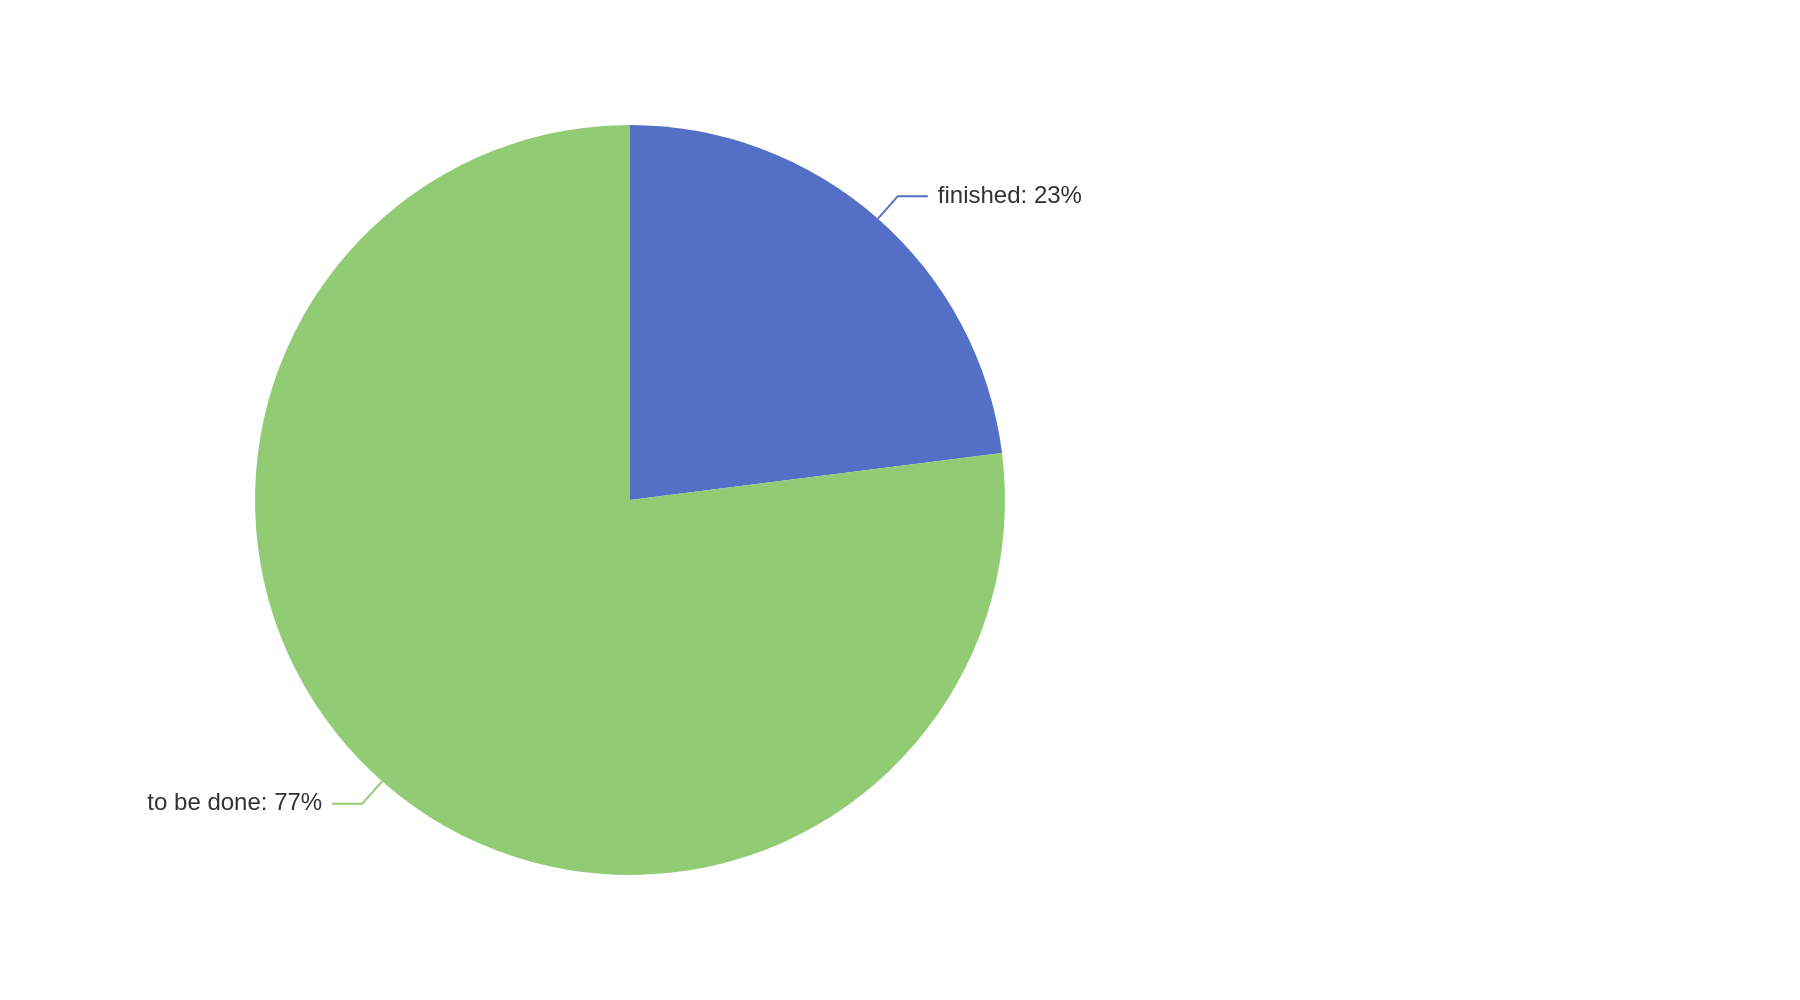
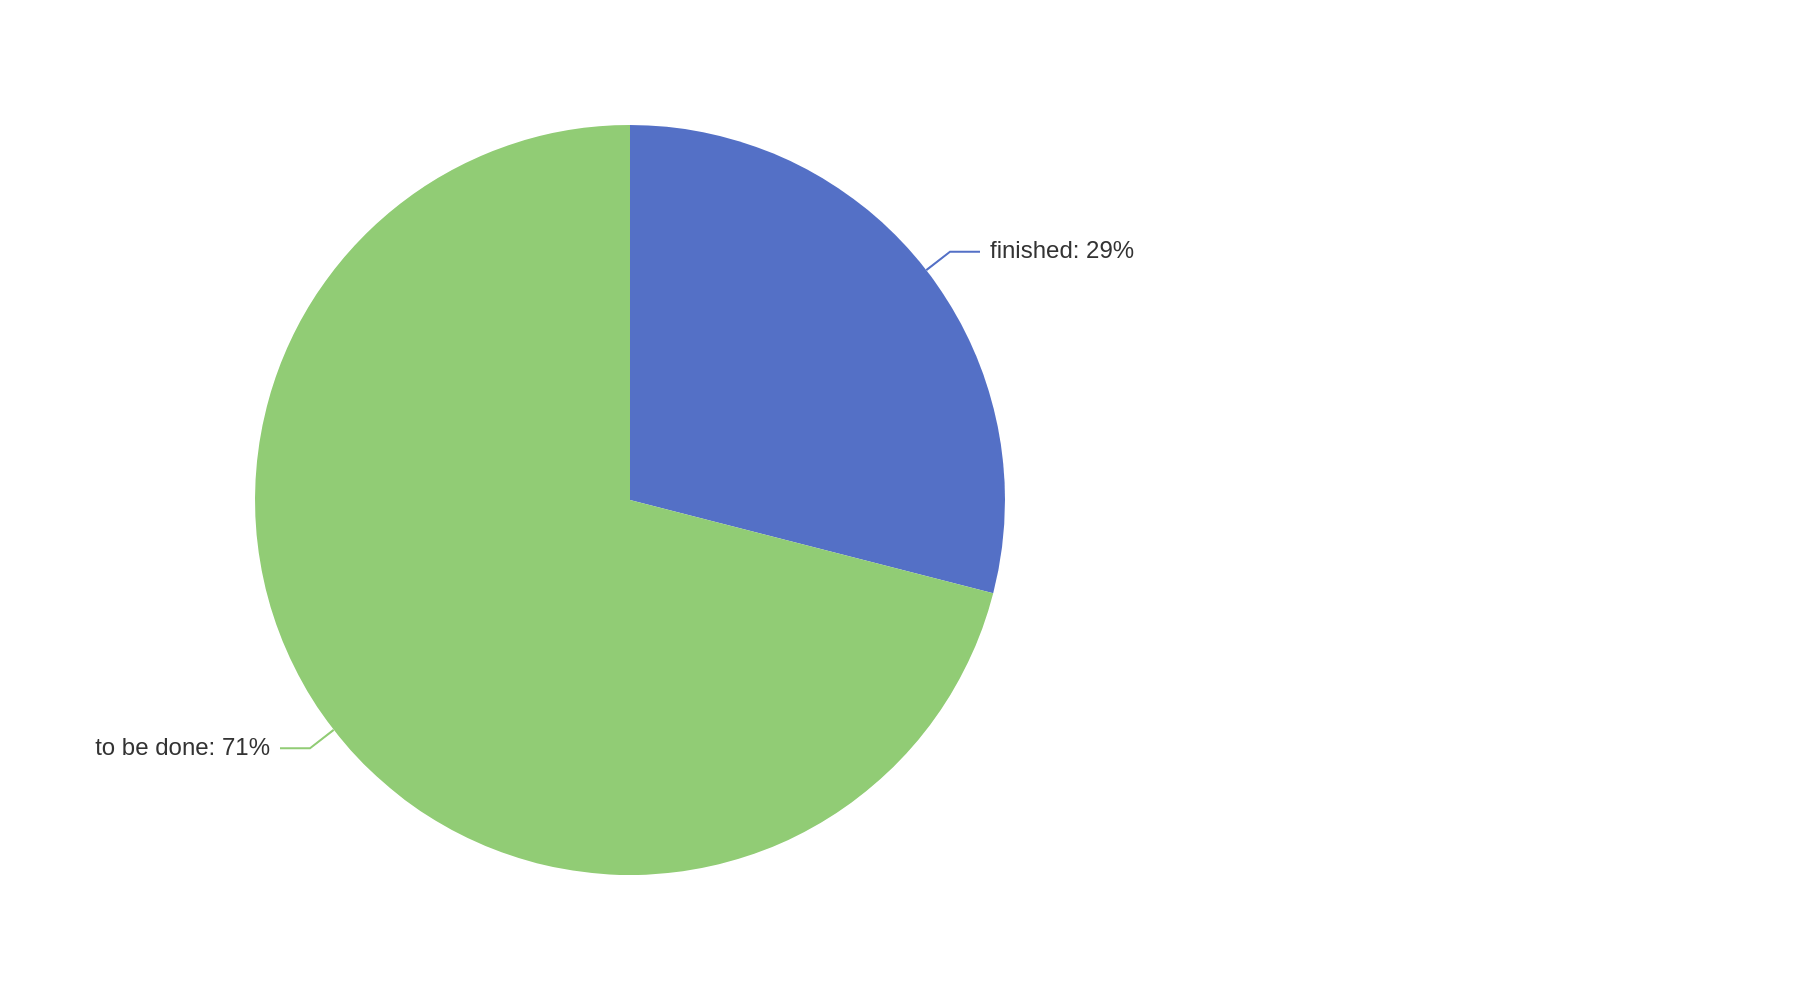
update 9.26

diff --git a/main.py b/main.py
@@ -10,8 +10,8 @@ README_MD = "./README.md"
 
 if __name__ == "__main__":
     loop = asyncio.get_event_loop()
-    result = loop.run_until_complete(add_record("BV1wy4y1D7JT", [BASIC_MD, BASIC_LEARNING_MD], "React", True, range(37), "REACT"))
-    result = loop.run_until_complete(add_record("BV1Xy4y1v7S2", [README_MD, BASIC_LEARNING_MD], "TypeScript", True, range(1), "TYPESCRIPT"))
+    result = loop.run_until_complete(add_record("BV1wy4y1D7JT", [BASIC_MD, BASIC_LEARNING_MD], "React", True, range(47), "REACT"))
+    result = loop.run_until_complete(add_record("BV1Xy4y1v7S2", [README_MD, BASIC_LEARNING_MD], "TypeScript", True, range(12), "TYPESCRIPT"))
     result = loop.run_until_complete(add_record("BV1AP411s7D7", [README_MD, BASIC_LEARNING_MD], "SSM", True, [], "SSM"))
     result = loop.run_until_complete(add_record("BV1np4y1C7Yf", [README_MD, BASIC_LEARNING_MD], "Gulimall", True, [], "GULIMALL"))
     result = loop.run_until_complete(add_record("BV1Np4y1z7BU", [README_MD, BASIC_LEARNING_MD], "Design Pattern", True, [], "DESIGNPATTERN"))

diff --git a/bilibili/convert_info.py b/bilibili/convert_info.py
@@ -18,10 +18,12 @@ def info_text(info, video_title, pages=False, finished=[-1]) -> tuple:
 
     pages_done = 0
     minutes_done = 0
+    secs_done = 0
     for (idx, page) in enumerate(pages_list):
         if idx in finished:
             pages_done += 1
-            minutes_done += round(page["duration"][0] / 60)
+            secs_done += page["duration"][0]
+    minutes_done = round(secs_done / 60)
 
     pages_number = len(pages_list)
     page_finished = "\t- {}/{} pages\n".format(pages_done, pages_number)

diff --git a/learnings/React.md b/learnings/React.md
@@ -8,8 +8,8 @@ This is a leanring board of me.
 
 ### [React](https://www.bilibili.com/video/BV1wy4y1D7JT)
 - Finished:
-	- 37/141 pages
-	- 556/2429 minutes
+	- 47/141 pages
+	- 699/2429 minutes
 	- <img src="https://github.com/Yin-FR/Learning/blob/main/assets/finish-percentage-React.png?raw=true" alt="" />
 - Deatil:
 	- [x] [001_尚硅谷react教程_react简介](https://www.bilibili.com/video/BV1wy4y1D7JT?p=1) 0:27:16
@@ -49,16 +49,16 @@ This is a leanring board of me.
 	- [x] [035_尚硅谷react教程_高阶函数_函数柯里化](https://www.bilibili.com/video/BV1wy4y1D7JT?p=35) 0:26:29
 	- [x] [036_尚硅谷react教程_不用柯里化的写法](https://www.bilibili.com/video/BV1wy4y1D7JT?p=36) 0:06:15
 	- [x] [037_尚硅谷react教程_引出生命周期](https://www.bilibili.com/video/BV1wy4y1D7JT?p=37) 0:39:02
-	- [ ] [038_尚硅谷react教程_生命周期(旧)_组件挂载流程](https://www.bilibili.com/video/BV1wy4y1D7JT?p=38) 0:14:12
-	- [ ] [039_尚硅谷react教程_生命周期(旧)_setState流程](https://www.bilibili.com/video/BV1wy4y1D7JT?p=39) 0:13:00
-	- [ ] [040_尚硅谷react教程_生命周期(旧)_forceUpdate流程](https://www.bilibili.com/video/BV1wy4y1D7JT?p=40) 0:05:27
-	- [ ] [041_尚硅谷react教程_生命周期(旧)_父组件render流程](https://www.bilibili.com/video/BV1wy4y1D7JT?p=41) 0:14:14
-	- [ ] [042_尚硅谷react教程_总结生命周期(旧)](https://www.bilibili.com/video/BV1wy4y1D7JT?p=42) 0:09:07
-	- [ ] [043_尚硅谷react教程_对比新旧生命周期](https://www.bilibili.com/video/BV1wy4y1D7JT?p=43) 0:31:28
-	- [ ] [044_尚硅谷react教程_getDerivedStateFromProps](https://www.bilibili.com/video/BV1wy4y1D7JT?p=44) 0:16:41
-	- [ ] [045_尚硅谷react教程_getSnapshotBeforeUpdate](https://www.bilibili.com/video/BV1wy4y1D7JT?p=45) 0:16:36
-	- [ ] [046_尚硅谷react教程_getSnapshotBeforeUpdate举例](https://www.bilibili.com/video/BV1wy4y1D7JT?p=46) 0:19:53
-	- [ ] [047_尚硅谷react教程_总结生命周期(新)](https://www.bilibili.com/video/BV1wy4y1D7JT?p=47) 0:04:26
+	- [x] [038_尚硅谷react教程_生命周期(旧)_组件挂载流程](https://www.bilibili.com/video/BV1wy4y1D7JT?p=38) 0:14:12
+	- [x] [039_尚硅谷react教程_生命周期(旧)_setState流程](https://www.bilibili.com/video/BV1wy4y1D7JT?p=39) 0:13:00
+	- [x] [040_尚硅谷react教程_生命周期(旧)_forceUpdate流程](https://www.bilibili.com/video/BV1wy4y1D7JT?p=40) 0:05:27
+	- [x] [041_尚硅谷react教程_生命周期(旧)_父组件render流程](https://www.bilibili.com/video/BV1wy4y1D7JT?p=41) 0:14:14
+	- [x] [042_尚硅谷react教程_总结生命周期(旧)](https://www.bilibili.com/video/BV1wy4y1D7JT?p=42) 0:09:07
+	- [x] [043_尚硅谷react教程_对比新旧生命周期](https://www.bilibili.com/video/BV1wy4y1D7JT?p=43) 0:31:28
+	- [x] [044_尚硅谷react教程_getDerivedStateFromProps](https://www.bilibili.com/video/BV1wy4y1D7JT?p=44) 0:16:41
+	- [x] [045_尚硅谷react教程_getSnapshotBeforeUpdate](https://www.bilibili.com/video/BV1wy4y1D7JT?p=45) 0:16:36
+	- [x] [046_尚硅谷react教程_getSnapshotBeforeUpdate举例](https://www.bilibili.com/video/BV1wy4y1D7JT?p=46) 0:19:53
+	- [x] [047_尚硅谷react教程_总结生命周期(新)](https://www.bilibili.com/video/BV1wy4y1D7JT?p=47) 0:04:26
 	- [ ] [048_尚硅谷react教程_DOM的diffing算法](https://www.bilibili.com/video/BV1wy4y1D7JT?p=48) 0:45:39
 	- [ ] [049_尚硅谷react教程_初始化react脚手架](https://www.bilibili.com/video/BV1wy4y1D7JT?p=49) 0:23:38
 	- [ ] [050_尚硅谷react教程_脚手架文件介绍_public](https://www.bilibili.com/video/BV1wy4y1D7JT?p=50) 0:30:37

diff --git a/learnings/TypeScript.md b/learnings/TypeScript.md
@@ -8,22 +8,22 @@ This is a leanring board of me.
 
 ### [TypeScript](https://www.bilibili.com/video/BV1Xy4y1v7S2)
 - Finished:
-	- 1/30 pages
-	- 26/625 minutes
+	- 12/30 pages
+	- 267/625 minutes
 	- <img src="https://github.com/Yin-FR/Learning/blob/main/assets/finish-percentage-TypeScript.png?raw=true" alt="" />
 - Deatil:
 	- [x] [00_TS简介](https://www.bilibili.com/video/BV1Xy4y1v7S2?p=1) 0:26:15
-	- [ ] [01_TS开发环境搭建](https://www.bilibili.com/video/BV1Xy4y1v7S2?p=2) 0:14:40
-	- [ ] [02_TS的类型声明](https://www.bilibili.com/video/BV1Xy4y1v7S2?p=3) 0:28:07
-	- [ ] [03_TS中类型（1）](https://www.bilibili.com/video/BV1Xy4y1v7S2?p=4) 0:27:08
-	- [ ] [04_TS中类型（2）](https://www.bilibili.com/video/BV1Xy4y1v7S2?p=5) 0:34:36
-	- [ ] [05_TS编译选项（1）](https://www.bilibili.com/video/BV1Xy4y1v7S2?p=6) 0:22:36
-	- [ ] [06_TS编译选项（2）](https://www.bilibili.com/video/BV1Xy4y1v7S2?p=7) 0:21:22
-	- [ ] [07_TS编译选项（3）](https://www.bilibili.com/video/BV1Xy4y1v7S2?p=8) 0:08:42
-	- [ ] [08_TS编译选项（4）](https://www.bilibili.com/video/BV1Xy4y1v7S2?p=9) 0:13:48
-	- [ ] [09_使用webpack打包ts代码（1）](https://www.bilibili.com/video/BV1Xy4y1v7S2?p=10) 0:17:56
-	- [ ] [10_使用webpack打包ts代码（2）](https://www.bilibili.com/video/BV1Xy4y1v7S2?p=11) 0:18:29
-	- [ ] [11_使用webpack打包ts代码（3）](https://www.bilibili.com/video/BV1Xy4y1v7S2?p=12) 0:33:02
+	- [x] [01_TS开发环境搭建](https://www.bilibili.com/video/BV1Xy4y1v7S2?p=2) 0:14:40
+	- [x] [02_TS的类型声明](https://www.bilibili.com/video/BV1Xy4y1v7S2?p=3) 0:28:07
+	- [x] [03_TS中类型（1）](https://www.bilibili.com/video/BV1Xy4y1v7S2?p=4) 0:27:08
+	- [x] [04_TS中类型（2）](https://www.bilibili.com/video/BV1Xy4y1v7S2?p=5) 0:34:36
+	- [x] [05_TS编译选项（1）](https://www.bilibili.com/video/BV1Xy4y1v7S2?p=6) 0:22:36
+	- [x] [06_TS编译选项（2）](https://www.bilibili.com/video/BV1Xy4y1v7S2?p=7) 0:21:22
+	- [x] [07_TS编译选项（3）](https://www.bilibili.com/video/BV1Xy4y1v7S2?p=8) 0:08:42
+	- [x] [08_TS编译选项（4）](https://www.bilibili.com/video/BV1Xy4y1v7S2?p=9) 0:13:48
+	- [x] [09_使用webpack打包ts代码（1）](https://www.bilibili.com/video/BV1Xy4y1v7S2?p=10) 0:17:56
+	- [x] [10_使用webpack打包ts代码（2）](https://www.bilibili.com/video/BV1Xy4y1v7S2?p=11) 0:18:29
+	- [x] [11_使用webpack打包ts代码（3）](https://www.bilibili.com/video/BV1Xy4y1v7S2?p=12) 0:33:02
 	- [ ] [12_面向对象简介](https://www.bilibili.com/video/BV1Xy4y1v7S2?p=13) 0:15:17
 	- [ ] [13_类的简介](https://www.bilibili.com/video/BV1Xy4y1v7S2?p=14) 0:18:51
 	- [ ] [14_构造函数和this](https://www.bilibili.com/video/BV1Xy4y1v7S2?p=15) 0:15:46

diff --git a/README.md b/README.md
@@ -7,11 +7,11 @@ This is a leanring board of me.
 ### 1.1 Front
 #### 1.1.1 React
 <!-- REACT -->
-- [ ] [React](https://github.com/Yin-FR/Learning/blob/main/learnings/React.md) 556/2429 minutes
+- [ ] [React](https://github.com/Yin-FR/Learning/blob/main/learnings/React.md) 699/2429 minutes
 
 #### 1.1.2 TypeScript
 <!-- TYPESCRIPT -->
-- [ ] [TypeScript](https://github.com/Yin-FR/Learning/blob/main/learnings/TypeScript.md) 26/625 minutes
+- [ ] [TypeScript](https://github.com/Yin-FR/Learning/blob/main/learnings/TypeScript.md) 267/625 minutes
 
 
 ### 1.2 Back
